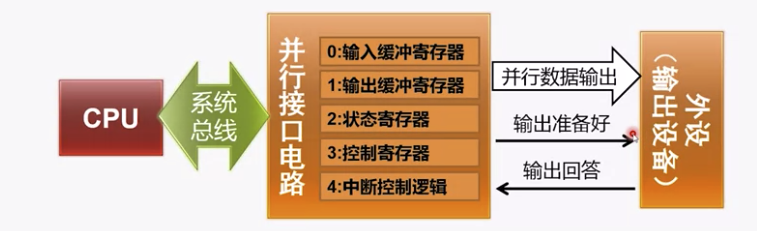
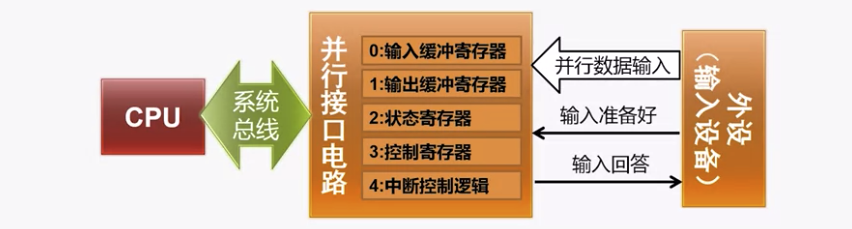
GitBook: [master] 2 pages and 3 assets modified

diff --git a/cs/os/io.md b/cs/os/io.md
@@ -21,11 +21,9 @@ IO 接口的主要能力：
 5. 中断管理
 6. 可编程管理
 
-![IO &#x63A5;&#x53E3;](../../.gitbook/assets/image%20%2899%29.png)
+![IO &#x63A5;&#x53E3;](../../.gitbook/assets/image%20%28100%29.png)
 
- 
-
-在计算机系统里面，CPU 和 I/O 设备之间的通信，是这么来解决的。
+ 在计算机系统里面，CPU 和 I/O 设备之间的通信，是这么来解决的。
 
 首先，在 I/O 设备这一侧，我们把 I/O 设备拆分成，能和 CPU 通信的接口电路，以及实际的 I/O 设备本身。接口电路里面有对应的状态寄存器、命令寄存器、数据寄存器、数据缓冲区和设备内存等等。接口电路通过总线和 CPU 通信，接收来自 CPU 的指令和数据。而接口电路中的控制电路，再解码接收到的指令，实际去操作对应的硬件设备。
 
@@ -52,7 +50,18 @@ IO 接口的主要能力：
 5. 接口发现输出回答信号有效后，将状态寄存器中的状态位输出缓冲区置为有效
 6. 在这个过程中，CPU 反复执行指令从状态寄存器中读出状态字，直到发现输出缓冲区，然后开始下一个输出过程，继续输出新数据
 
-![&#x6570;&#x636E;&#x8F93;&#x51FA;&#x8FC7;&#x7A0B;&#xFF08;&#x67E5;&#x8BE2;&#x65B9;&#x5F0F;&#xFF09;](../../.gitbook/assets/image%20%2898%29.png)
+![&#x6570;&#x636E;&#x8F93;&#x51FA;&#x8FC7;&#x7A0B;&#xFF08;&#x7A0B;&#x5E8F;&#x67E5;&#x8BE2;&#x65B9;&#x5F0F;&#xFF09;](../../.gitbook/assets/image%20%2899%29.png)
+
+数据输入程序查询方式过程：
+
+1. 系统初始化时，CPU 执行指令，将控制字写入接口的控制寄存器，设置接口的工作模式
+2. 外设将数据发到并行数据输入信号线上，并将输入准备好信号置为有效
+3. 接口发现输入准备好信号有效后，从并行数据输入信号线上接收数据，放入输入缓冲寄存器，并将输入回答置为有效，阻止外设输入新数据
+4. 接口将状态寄存器中的状态位输入缓冲满置为有效
+5. 在上述过程中，CPU 反复执行指令从状态寄存器中读出状态字，直到发现输入缓冲满，然后执行指令从输入缓冲寄存器中读出数据
+6. 接口将输入回答信号置为无效，等待外设输入新数据，当然也会将状态寄存器置为无效等
+
+![&#x6570;&#x636E;&#x8F93;&#x5165;&#x8FC7;&#x7A0B;&#xFF08;&#x7A0B;&#x5E8F;&#x67E5;&#x8BE2;&#x65B9;&#x5F0F;&#xFF09;](../../.gitbook/assets/image%20%2898%29.png)
 
 * 中断控制
 

diff --git a/framework/netty.md b/framework/netty.md
@@ -30,6 +30,11 @@ description: 一个异步的基于事件驱动的高性能网络应用框架。
 * 无锁串行化设计思想
 * 支持高性能序列化协议
 * 零拷贝技术\(使用 Java 提供的直接内存和 OS 的 DMA 能力\)
+
+扩展阅读：
+
+1. [搞懂 零拷贝技术](https://www.cnblogs.com/xiaolincoding/p/13719610.html)
+
 * ByteBuf 内存池设计
 * 灵活的 TCP 参数配置能力
 * 并发优化
